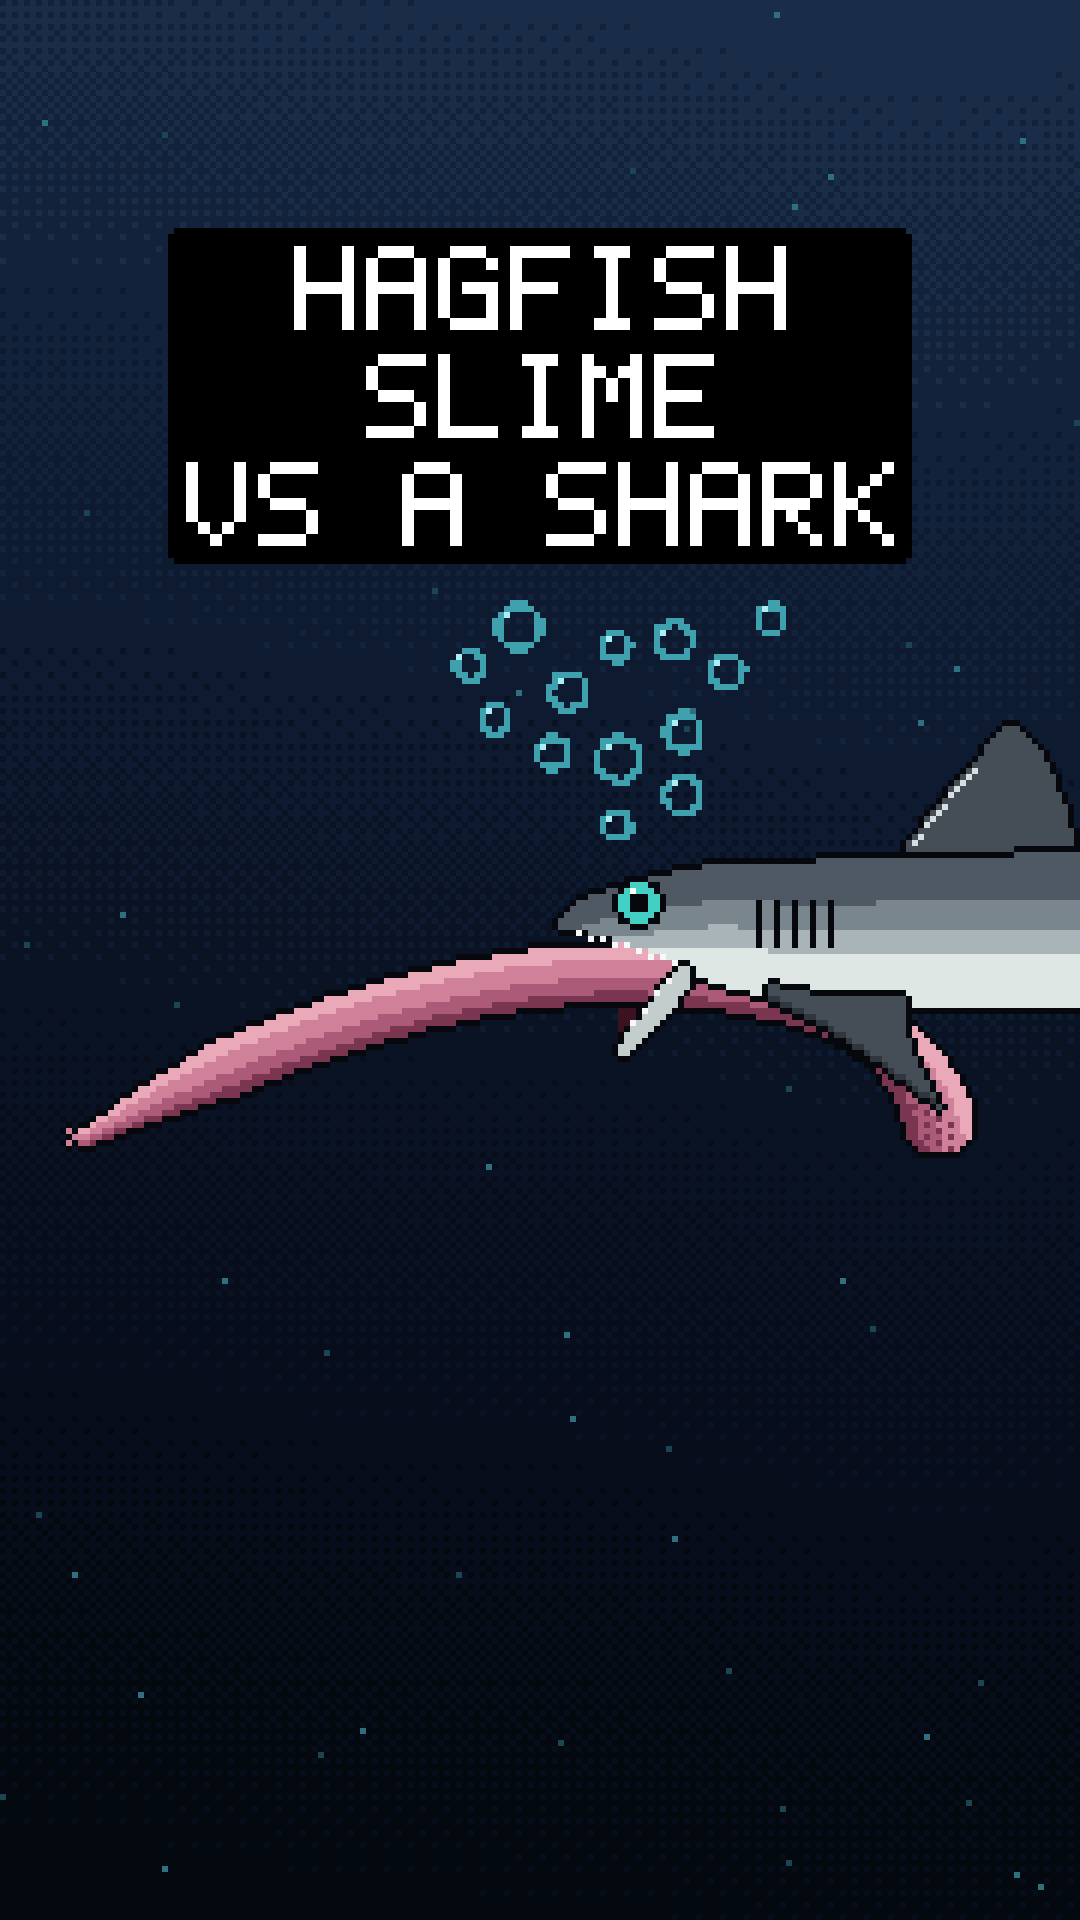
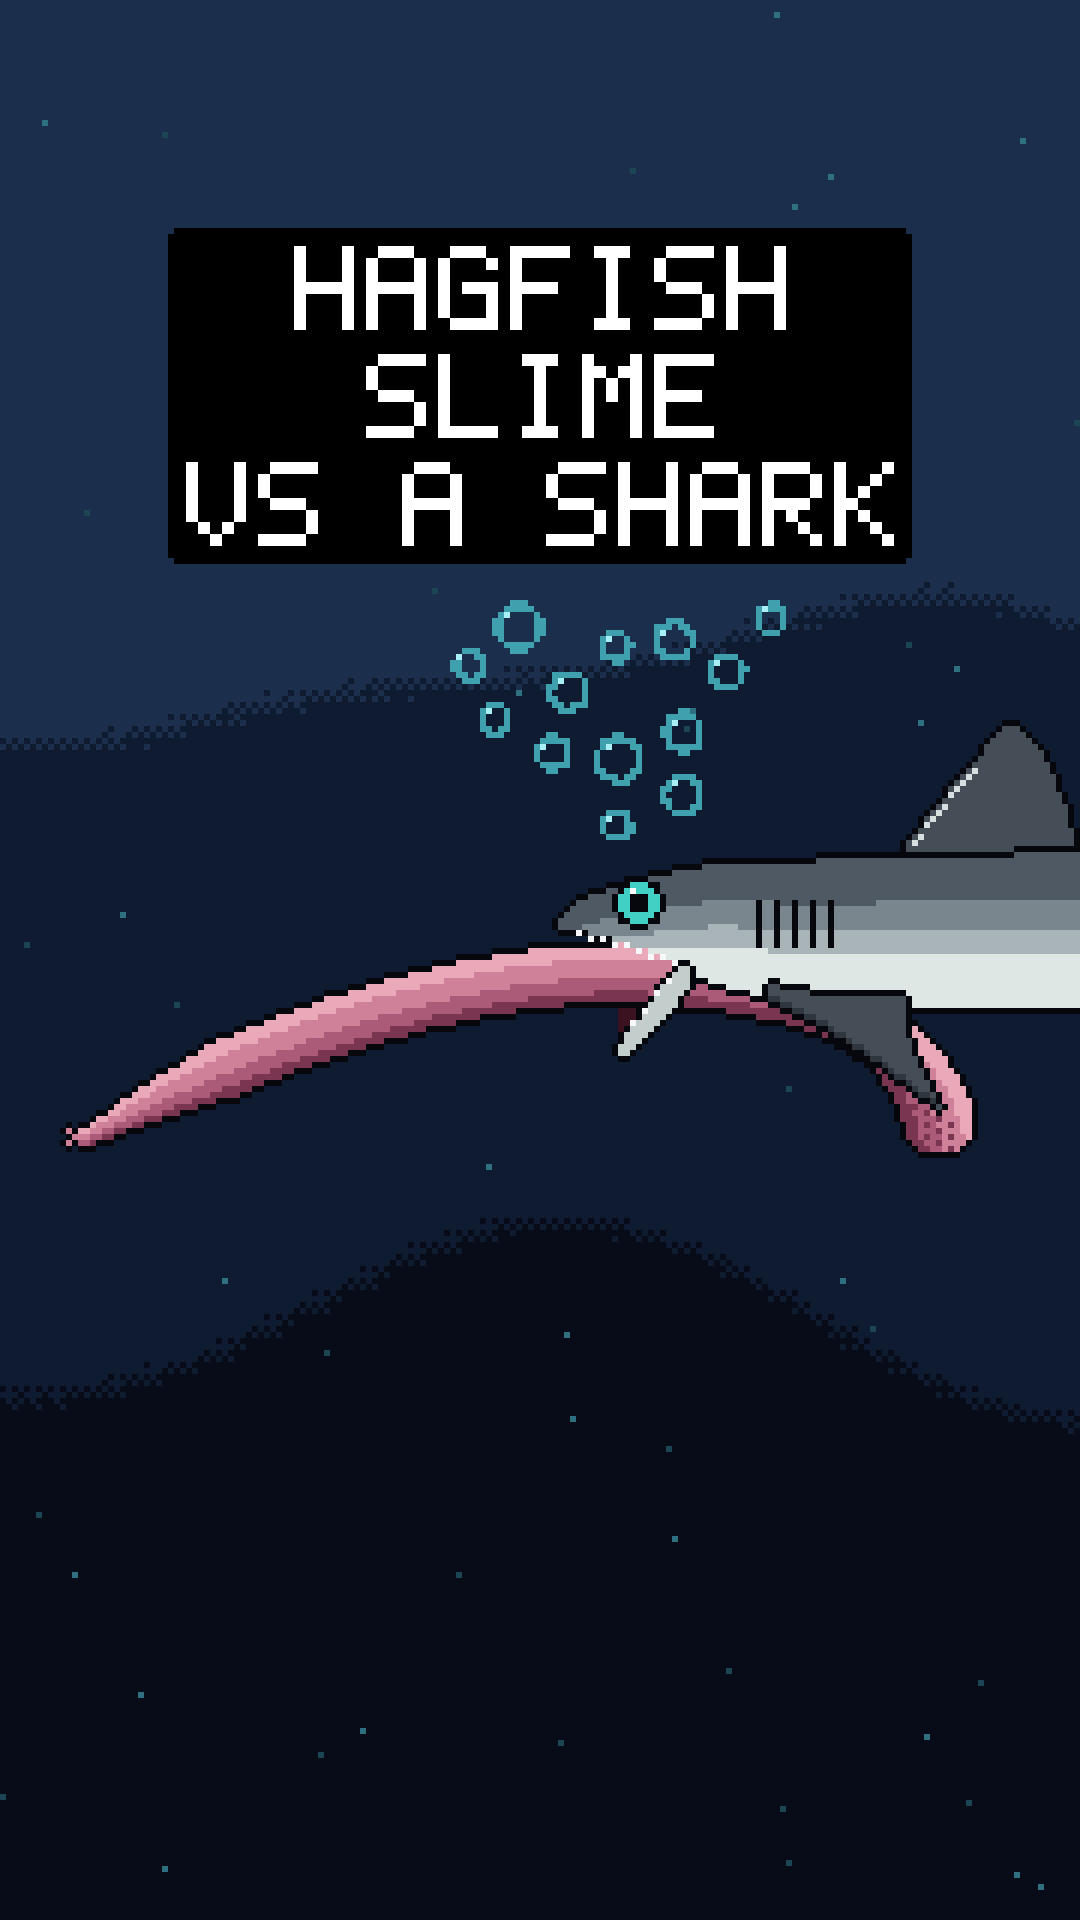
Style study: three-shade water with visible curved blended edges
Claude-Session: https://claude.ai/code/session_01BoE2WJmQEjMiaJ5xhSpjQy

Changed region(s): [[0.0, 0.1562, 1.0, 0.4062]]

diff --git a/style_study/hagfish_vs_shark.py b/style_study/hagfish_vs_shark.py
@@ -19,13 +19,14 @@ def layer(F, mask, colours):
     F[mask] = colours[mask]
 
 # ================================================================ water: bands with curved, unique edges
-WATER = [c('#04080f'), c('#070d1a'), c('#0a1324'), c('#0e1a2f'), c('#13223b'), c('#192c48')]
-# light at the top -> dark at the bottom; the band edges follow smooth curves and
-# every edge blends into the next shade through a wide ordered-dither ramp
-curve = 11 * np.sin(XX / 34 + 0.7) + 5 * np.sin(XX / 19 + 2.1)
-yw = np.clip((YY + curve) / H, 0, 1)
-v = (len(WATER) - 1) * (1 - yw) ** 1.15 + 0.5
-F = np.stack(WATER)[np.clip(np.floor(v + BAYER[YY % 4, XX % 4] - 0.5), 0, len(WATER) - 1).astype(int)].astype(np.uint8)
+# three shades, light at the top -> dark at the bottom, split by two smooth curves;
+# a short ordered-dither ramp across each curve so the shades blend but the curve stays visible
+WATER = [c('#1b2e4c'), c('#0f1b31'), c('#070c18')]
+c1 = 112 + 11 * np.sin(XX / 34 + 0.7) + 5 * np.sin(XX / 19 + 2.1)
+c2 = 222 + 13 * np.sin(XX / 38 + 2.4) + 6 * np.sin(XX / 22 + 0.3)
+RAMP = 5.0
+v = np.clip((YY - c1) / RAMP + 0.5, 0, 1) + np.clip((YY - c2) / RAMP + 0.5, 0, 1)
+F = np.stack(WATER)[np.clip(np.floor(v + BAYER[YY % 4, XX % 4] - 0.5 + 0.5), 0, 2).astype(int)].astype(np.uint8)
 rng = np.random.default_rng(4)
 for _ in range(60):
     x, y = rng.integers(0, W), rng.integers(0, H)
